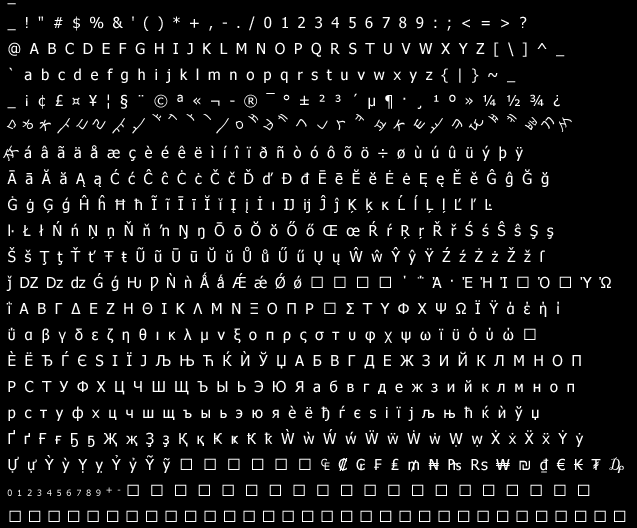
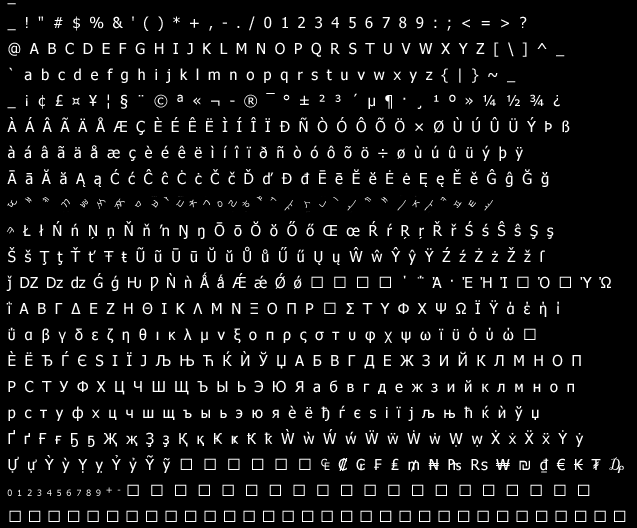
normal.png를 10pt로 다시 생성
한글 폰트 글리프의 너비가 라틴 알파벳의 그것과 맞지 않아,
특히 10pt로 줄이면서 그리프 너비가 너무 좁아져서, 비교적
좁은 문자가 많은 (I,i 꼴) 영역으로 매핑을 옮김.

diff --git a/mapper.py b/mapper.py
@@ -20,8 +20,10 @@ raw_mapping_list = [
   list(range(0x2080, 0x208C)), #19: ₀ ₁ ₂ ...19: ₉ ₊ ₋ # Superscripts and Subscripts
 ]
 
-mapping_alpha = list(map(chr,range(0x00C0, 0x00C0+33)))
-mapping_jamo = 'ㅁ ㅎ ㅊ ㅜ ㄷ ㄹ ㅠ ㅗ ㅑ ㅓ ㅏ ㅣ ㅡ ㅇ ㅐ ㅂ ㅔ ㄱ ㄴ ㅅ ㅕ ㅍ ㅈ ㅌ ㅛ ㅋ ㄸ ㅒ ㅖ ㅃ ㄲ ㅆ ㅉ'.split()
+#mapping_alpha = list(map(chr,range(0x00C0, 0x00C0+33)))
+#mapping_jamo = 'ㅁ ㅎ ㅊ ㅜ ㄷ ㄹ ㅠ ㅗ ㅑ ㅓ ㅏ ㅣ ㅡ ㅇ ㅐ ㅂ ㅔ ㄱ ㄴ ㅅ ㅕ ㅍ ㅈ ㅌ ㅛ ㅋ ㄸ ㅒ ㅖ ㅃ ㄲ ㅆ ㅉ'.split()
+mapping_alpha = list(map(chr,range(0x0120, 0x0120+33)))
+mapping_jamo = 'ㄸ ㅒ ㅖ ㄲ ㅃ ㅆ ㅉ ㅁ ㅂ ㅏ ㄷ ㅊ ㄱ ㅇ ㄹ ㅎ ㅑ ㅓ ㅠ ㅅ ㄴ ㅣ ㅗ ㅔ ㅐ ㅡ ㅈ ㅜ ㅕ ㅍ ㅌ ㅛ ㅋ'.split()
 
 shadowed = set()
 
@@ -38,8 +40,4 @@ for line in sys.stdin.readlines():
       buff += ch
   print(buff, end='')
 
-print(shadowed)
-
-test="""
-echo -e '안녕하세요\r\n이건 apple 입니다.\r\nwhat the  Â Ã Ä hell\r\n' | ./mapper.py
-"""
+print(shadowed, file=sys.stderr)
